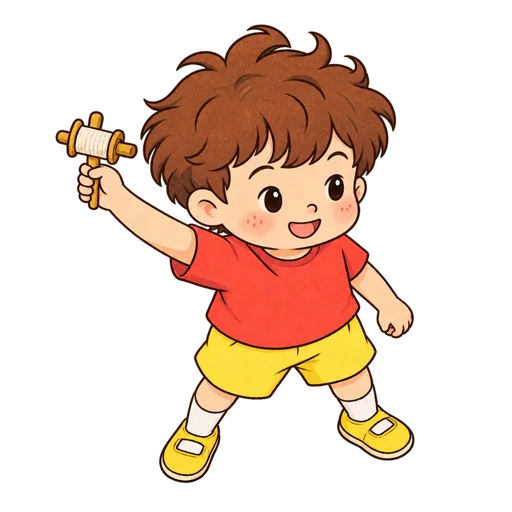
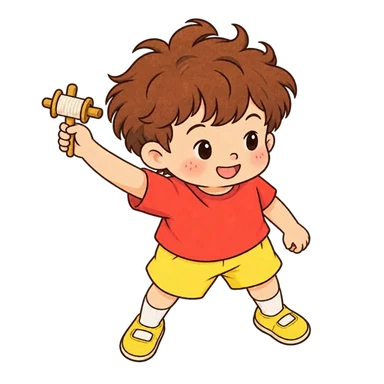
🎨 优化草地角色尺寸与素材

diff --git a/entrypoints/newtab/shared/wallpaper/meadow/meadowCharacters.ts b/entrypoints/newtab/shared/wallpaper/meadow/meadowCharacters.ts
@@ -458,6 +458,13 @@ void main() {
   vec2 projected=vec2(p.x+.46*sy,uGround.x*(p.x+.46*sy)+uGround.y+sy);
   vec2 personPoint=mix(p,projected,uShadow);
   vec4 person=characterColor(personPoint);
+  if (uShadow < .5) {
+    // Keep the silhouette legible in screen pixels when the character is small.
+    float r=.55/max(uPlace.z,.01);
+    float edge=max(max(characterColor(personPoint+vec2(r,0.)).a,characterColor(personPoint-vec2(r,0.)).a),
+                   max(characterColor(personPoint+vec2(0.,r)).a,characterColor(personPoint-vec2(0.,r)).a));
+    person=over(vec4(.20,.15,.12,edge*.85),person);
+  }
   // 风筝较高：整只风筝与三条尾带一起投影，方向和云影一致。
   vec4 kite=kiteColor(p-uShadow*vec2(98.,134.),screen);
   vec2 hand=uHand,attach=uKite+turn(vec2(-41.,-16.),kiteAngle());
@@ -538,10 +545,14 @@ void main() {
       image.onload = () => {
         pendingImages.delete(image)
         if (isDisposed()) return
-        const sprite = document.createElement('canvas')
-        sprite.width = size
-        sprite.height = size * heightRatio
-        sprite.getContext('2d')!.drawImage(image, 0, 0, sprite.width, sprite.height)
+        let sprite: TexImageSource = image
+        if (image.naturalWidth !== size || image.naturalHeight !== size * heightRatio) {
+          const canvas = document.createElement('canvas')
+          canvas.width = size
+          canvas.height = size * heightRatio
+          canvas.getContext('2d')!.drawImage(image, 0, 0, canvas.width, canvas.height)
+          sprite = canvas
+        }
         gl.activeTexture(unit)
         gl.bindTexture(gl.TEXTURE_2D, targetTexture)
         gl.texImage2D(gl.TEXTURE_2D, 0, gl.RGBA, gl.RGBA, gl.UNSIGNED_BYTE, sprite)
@@ -614,7 +625,7 @@ void main() {
           previousTime === null ? 0 : Math.min(0.05, Math.max(0, (now - previousTime) / 1000))
         previousTime = now
         time += dt
-        const s = Math.max(0.24, Math.min(1.25, W / 1379, (H - TASKBAR) / 1141)) * 0.35
+        const s = Math.max(0.24, Math.min(1.25, W / 1379, (H - TASKBAR) / 1141)) * 0.28
         // 只在画面尺寸变化时重新定位，不跟踪图标。
         const next = [W, H, TASKBAR].join(',')
         if (signature !== next) {
@@ -943,7 +954,7 @@ void main() {
   }
 
   const meadowCatRunLanes = (state: BoyState, width: number, height: number, taskbar: number) => {
-    const scale = Math.max(0.24, Math.min(1.25, width / 1379, (height - taskbar) / 1141)) * 0.35
+    const scale = Math.max(0.24, Math.min(1.25, width / 1379, (height - taskbar) / 1141)) * 0.28
     const lanes: [Point, Point][] = []
     const add = (a: Point, b: Point) => {
       lanes.push([{ ...a }, { ...b }])
